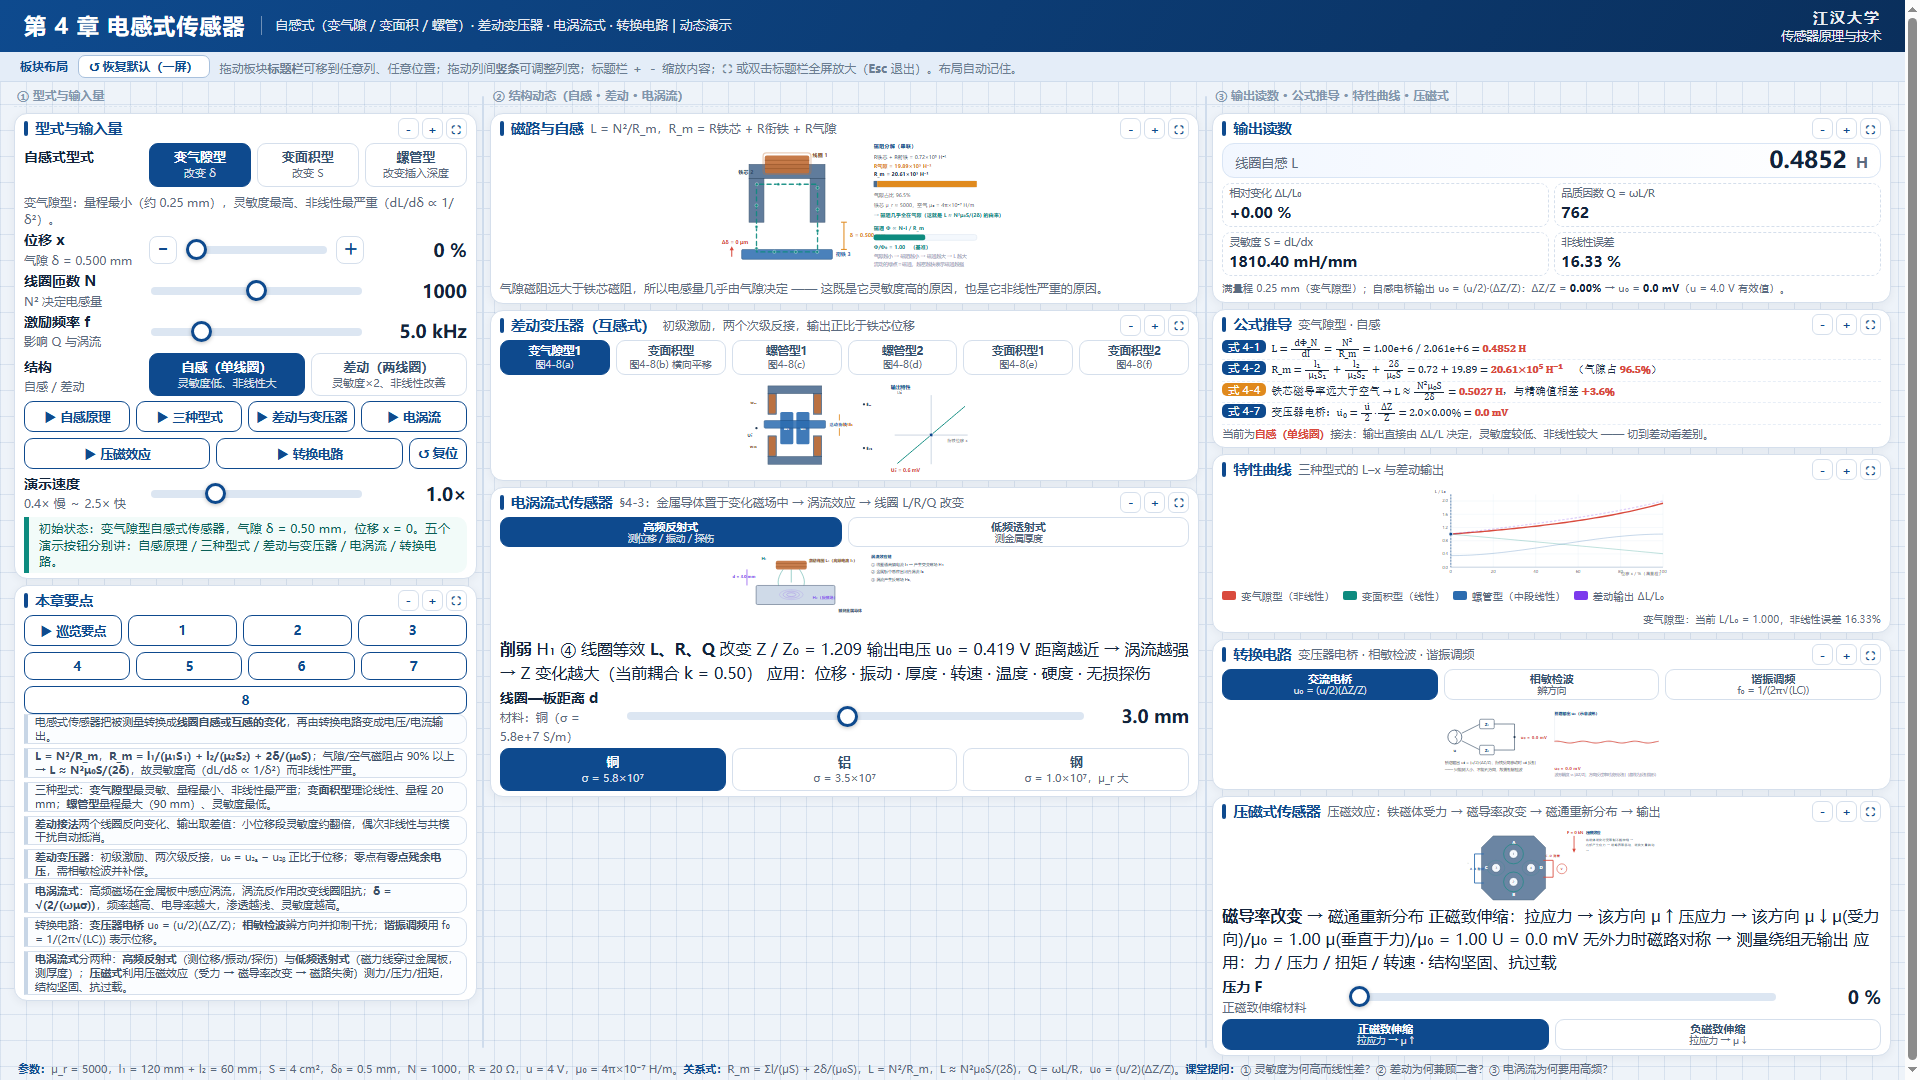
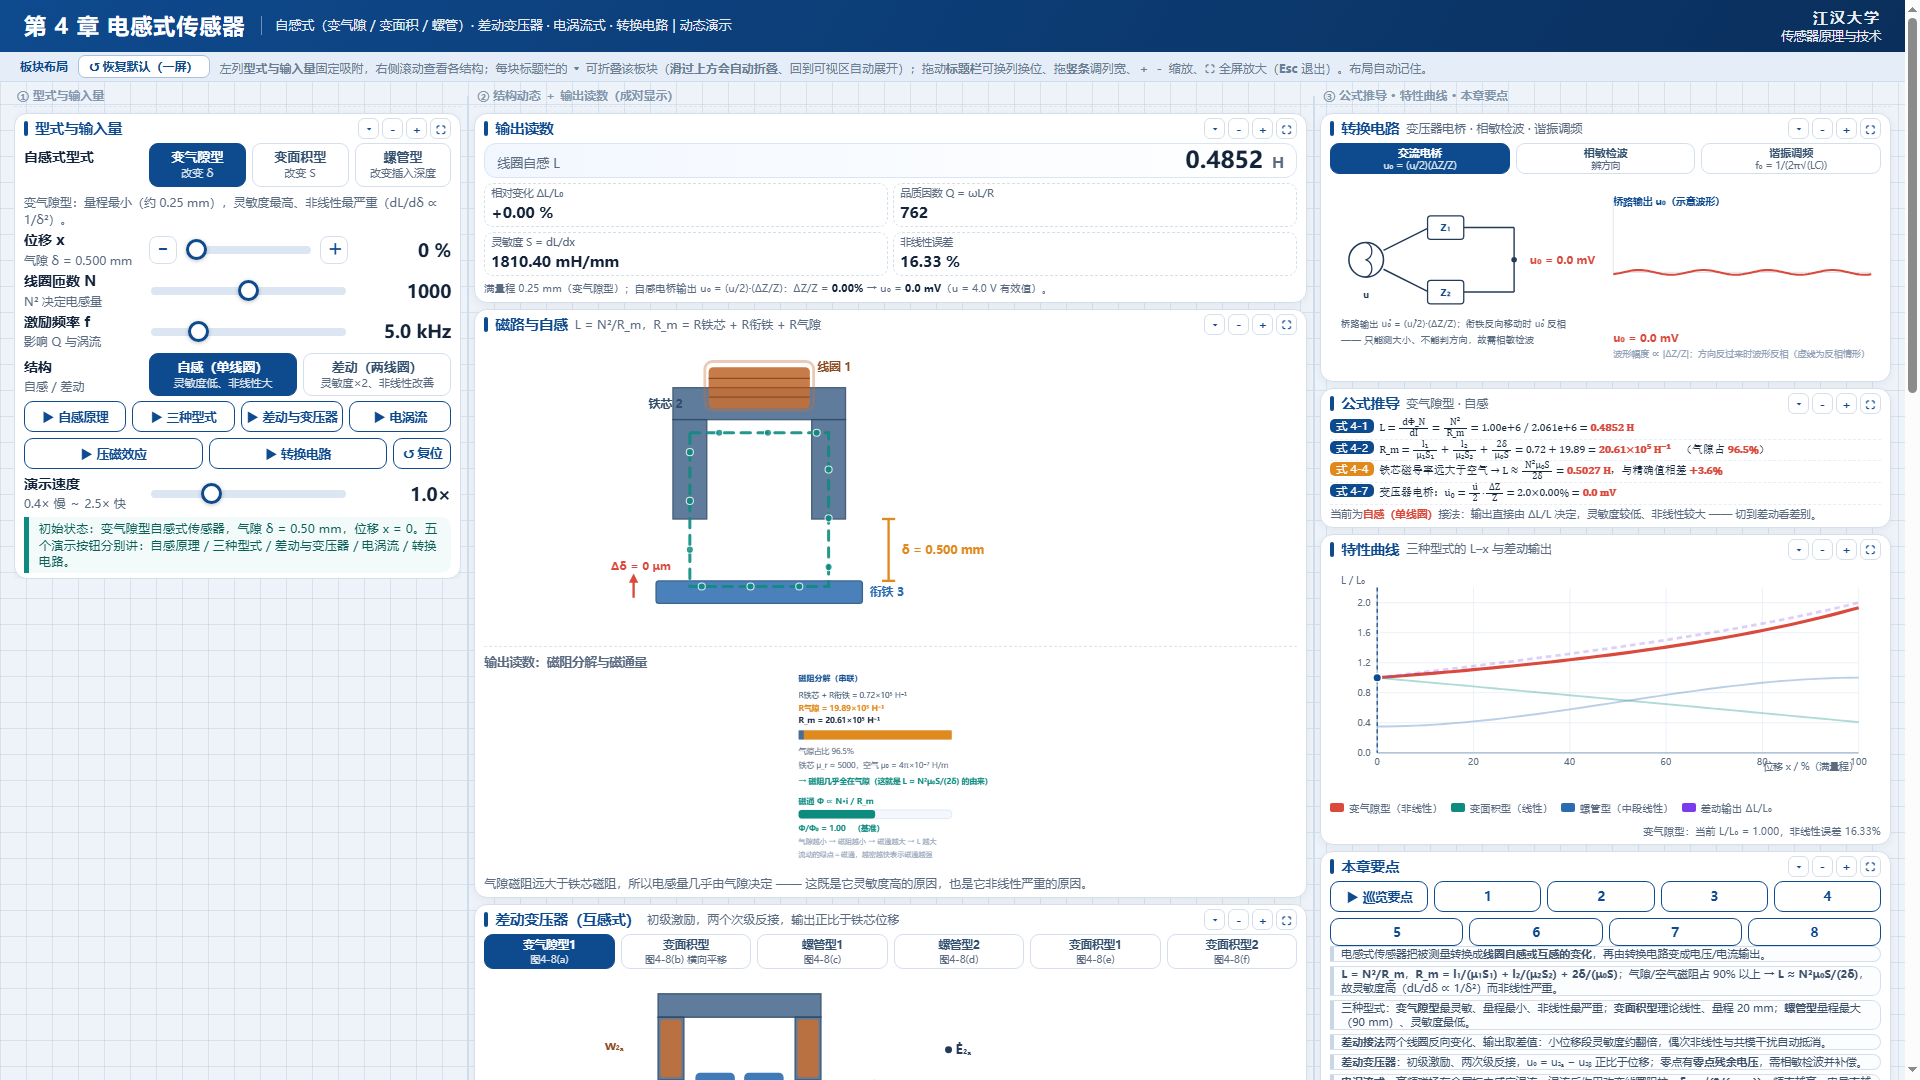
布局改版：左列型式与输入量吸附固定；右侧每个结构图与其输出读数合并成一张卡片（读数紧贴动态下方）；结构图取消限高放大；滑过上方自动折叠、回到可视区自动展开（含手动折叠按钮）

diff --git a/传感器原理及检测技术/第4章-电感式传感器-动态演示.html b/传感器原理及检测技术/第4章-电感式传感器-动态演示.html
@@ -139,8 +139,18 @@
   #segEddy button, #segPm button{min-width:70px; flex:1 1 70px; padding:2px 4px; font-size:11px; line-height:1.2}
   #segEddy button small, #segPm button small{font-size:9.5px}
   .ptsB{flex:0 0 26px; padding:2px 0; font-size:11px; border-radius:6px}
-  #mag{max-height:132px} #curve{max-height:104px} #diff,#lvd{max-height:96px}
-  #eddy{max-height:86px} #cir{max-height:80px} #pm{max-height:78px}
+  /* 左列（型式与输入量）吸附固定，右侧滚动时始终可见 */
+  #colA{position:sticky; top:6px; align-self:flex-start; max-height:calc(100vh - 16px); overflow-y:auto}
+  #colA::-webkit-scrollbar{width:6px}
+  #colA::-webkit-scrollbar-thumb{background:#c3d3e6; border-radius:3px}
+  .panel.folded > .pbody{display:none}
+  .panel.folded{border-color:#bcd0e5; background:#f8fbff}
+  .panel.folded > .phead h2{color:#5b6b80}
+  .ptool[data-act="fold"]{font-size:11px}
+  .readlabel{font-size:12.5px; font-weight:700; color:#5b6b80; margin:7px 0 3px; padding-top:6px; border-top:1px dashed #dbe5f0}
+  .readwrap svg{max-height:196px}
+  .pbody > svg{max-height:300px}
+  .pbody > svg + svg{max-height:196px}
   @media (max-width:1200px){ #boardWrap{min-width:1180px} }
 </style>
 </head>
@@ -153,7 +163,7 @@
 <div id="laybar">
   <span style="font-weight:700;color:#0e4a8e">板块布局</span>
   <button id="layReset">↺ 恢复默认（一屏）</button>
-  <span class="hint">拖动板块<b>标题栏</b>可移到任意列、任意位置；拖动列间<b>竖条</b>可调整列宽；标题栏 <b>＋ －</b> 缩放内容；<b>⛶</b> 或双击标题栏全屏放大（<b>Esc</b> 退出）。布局自动记住。</span>
+  <span class="hint">左列<b>型式与输入量</b>固定吸附，右侧滚动查看各结构；每块标题栏的 <b>▾</b> 可折叠该板块（<b>滑过上方会自动折叠</b>、回到可视区自动展开）；拖动<b>标题栏</b>可换列换位、拖<b>竖条</b>调列宽、<b>＋ －</b> 缩放、<b>⛶</b> 全屏放大（<b>Esc</b> 退出）。布局自动记住。</span>
 </div>
 
 <div id="boardWrap">
@@ -446,7 +456,11 @@
         <!-- 差动式：两个线圈分绕上/下磁芯，衔铁在中间，上下气隙一增一减 -->
 
         <!-- 右侧：磁阻分解 + 磁通量 -->
-        <g transform="translate(420,12)">
+        
+      </svg>
+      <div class="readlabel">输出读数：磁阻分解与磁通量</div>
+      <div class="readwrap"><svg viewBox="0 0 620 320" role="img" aria-label="输出读数 ① 磁阻分解与磁通量">
+<g transform="translate(160,12)">
           <text x="0" y="0" font-size="13" font-weight="700" fill="#0e4a8e">磁阻分解（串联）</text>
           <text id="rmFe" x="0" y="28" font-size="12.5" fill="#2f4b68">R铁芯 + R衔铁 = 0</text>
           <text id="rmGap" x="0" y="48" font-size="12.5" font-weight="700" fill="var(--gapm)">R气隙 = 0</text>
@@ -464,17 +478,20 @@
           <text id="fluxNote" x="0" y="266" font-size="11.5" fill="#94a3b8">气隙越小 → 磁阻越小 → 磁通越大 → L 越大</text>
           <text x="0" y="286" font-size="11.5" fill="#94a3b8">流动的绿点＝磁通，越密越快表示磁通越强</text>
         </g>
-      </svg>
+      </svg></div>
+
       <div class="hint" id="magHint">气隙磁阻远大于铁芯磁阻，所以电感量几乎由气隙决定 —— 这既是它灵敏度高的原因，也是它非线性严重的原因。</div>
       </div>
     </section>
+
+    
   </div>
 
   <div class="vsplit" data-left="colA" data-right="colB" title="拖动可调整两列宽度"></div>
 
   <!-- ================= 中列 ================= -->
   <div class="col" id="colB">
-    <div class="colhead">② 结构动态（自感 · 差动 · 电涡流）</div>
+    <div class="colhead">② 结构动态 ＋ 输出读数（成对显示）</div>
 
     <section class="card panel" id="fmlCard">
       <div class="phead">
@@ -564,17 +581,7 @@
           <line id="dDim" x1="52" y1="56" x2="52" y2="150" stroke="var(--eddy)" stroke-width="2"/>
           <text id="dTxt" x="8" y="106" font-size="12" font-weight="700" fill="var(--eddy)">d = 0.0 mm</text>
           <!-- 因果链 -->
-          <g transform="translate(430,20)">
-            <text x="0" y="0" font-size="12.5" font-weight="700" fill="#0e4a8e">涡流效应链</text>
-            <text x="0" y="26" font-size="12" fill="#33506f">① 线圈通高频电流 I₁ → 产生交变磁场 H₁</text>
-            <text x="0" y="48" font-size="12" fill="#33506f">② 金属板中感应出闭合涡流 I₂</text>
-            <text x="0" y="70" font-size="12" fill="#33506f">③ 涡流产生反磁场 H₂，<b>削弱</b> H₁</text>
-            <text x="0" y="92" font-size="12" fill="#33506f">④ 线圈等效 <b>L、R、Q</b> 改变</text>
-            <text id="eddyZ" x="0" y="122" font-size="13" font-weight="700" fill="#d94a3d">Z / Z₀ = 1.000</text>
-            <text id="eddyU" x="0" y="146" font-size="13" font-weight="700" fill="#0e4a8e">输出电压 u₀ = 0.00 V</text>
-            <text id="eddyNote" x="0" y="172" font-size="11" fill="#94a3b8">距离越近 → 涡流越强 → 阻抗变化越大</text>
-            <text x="0" y="196" font-size="11" fill="#94a3b8">应用：位移 · 振动 · 厚度 · 转速 · 温度 · 硬度 · 无损探伤</text>
-          </g>
+          
         </g>
         <!-- ===== 模式② 低频透射式 ===== -->
         <g id="eddyTrans" style="display:none">
@@ -598,7 +605,23 @@
           <line x1="150" y1="217" x2="260" y2="217" stroke="#8c4d22" stroke-width="1.2"/>
           <text x="268" y="216" font-size="12" font-weight="700" fill="#8c4d22">接收线圈 L₂</text>
           <text x="106" y="212" font-size="12" font-weight="700" fill="#2b6cb0">U̇₂</text>
-          <g transform="translate(430,20)">
+          
+        </g>
+      </svg>
+      <div class="readlabel">输出读数：阻抗变化 / 接收信号</div>
+      <div class="readwrap"><svg viewBox="0 0 640 240" role="img" aria-label="输出读数 ③ 电涡流：阻抗变化 / 接收信号">
+<g id="eddyReadRefl" transform="translate(180,14)">
+            <text x="0" y="0" font-size="12.5" font-weight="700" fill="#0e4a8e">涡流效应链</text>
+            <text x="0" y="26" font-size="12" fill="#33506f">① 线圈通高频电流 I₁ → 产生交变磁场 H₁</text>
+            <text x="0" y="48" font-size="12" fill="#33506f">② 金属板中感应出闭合涡流 I₂</text>
+            <text x="0" y="70" font-size="12" fill="#33506f">③ 涡流产生反磁场 H₂，<b>削弱</b> H₁</text>
+            <text x="0" y="92" font-size="12" fill="#33506f">④ 线圈等效 <b>L、R、Q</b> 改变</text>
+            <text id="eddyZ" x="0" y="122" font-size="13" font-weight="700" fill="#d94a3d">Z / Z₀ = 1.000</text>
+            <text id="eddyU" x="0" y="146" font-size="13" font-weight="700" fill="#0e4a8e">输出电压 u₀ = 0.00 V</text>
+            <text id="eddyNote" x="0" y="172" font-size="11" fill="#94a3b8">距离越近 → 涡流越强 → 阻抗变化越大</text>
+            <text x="0" y="196" font-size="11" fill="#94a3b8">应用：位移 · 振动 · 厚度 · 转速 · 温度 · 硬度 · 无损探伤</text>
+          </g>
+<g id="eddyReadTrans" transform="translate(190,14)" style="display:none">
             <text x="0" y="0" font-size="12.5" font-weight="700" fill="#0e4a8e">透射式原理链</text>
             <text x="0" y="26" font-size="12" fill="#33506f">U → L₁ → 同频交变电流 → 交变磁场</text>
             <text x="0" y="48" font-size="12" fill="#33506f">→ 磁力线切割 M → 产生涡流 i</text>
@@ -608,8 +631,8 @@
             <text id="transNote" x="0" y="152" font-size="11" fill="#94a3b8">降低频率 → 贯穿深度加厚 → 可测更厚的板材</text>
             <text x="0" y="176" font-size="11" fill="#94a3b8">板越厚 → 涡流吸收越多 → 接收信号越小（测厚度）</text>
           </g>
-        </g>
-      </svg>
+      </svg></div>
+
       <div class="ctrl" style="margin-top:4px">
         <div class="row">
           <span class="name"><b id="eddyLbl">线圈—板距离 d</b><br><span class="tiny" id="matTxt">材料：铜</span></span>
@@ -624,6 +647,8 @@
       </div>
       </div>
     </section>
+
+    
 
     <section class="card panel" id="pmCard">
       <div class="phead">
@@ -672,7 +697,11 @@
           <polygon id="pmF2H" points="428,218 422,232 434,232" fill="#d94a3d" opacity="0"/>
         </g>
         <!-- 右侧：解释与读数 -->
-        <g transform="translate(468,26)">
+        
+      </svg>
+      <div class="readlabel">输出读数：磁导率与输出电压</div>
+      <div class="readwrap"><svg viewBox="0 0 480 280" role="img" aria-label="输出读数 ④ 压磁式：磁导率与输出电压">
+<g transform="translate(120,14)">
           <text x="0" y="0" font-size="12.5" font-weight="700" fill="#0e4a8e">压磁效应</text>
           <text x="0" y="24" font-size="11.5" fill="#33506f">铁磁体磁化时受限制不能伸缩 →</text>
           <text x="0" y="44" font-size="11.5" fill="#33506f">内部产生应力 → 磁畴界限移动、磁化矢量转动</text>
@@ -685,7 +714,8 @@
           <text id="pmNote" x="0" y="210" font-size="11" fill="#94a3b8">无外力时磁路对称 → 测量绕组无输出</text>
           <text x="0" y="232" font-size="11" fill="#94a3b8">应用：力 / 压力 / 扭矩 / 转速 · 结构坚固、抗过载</text>
         </g>
-      </svg>
+      </svg></div>
+
       <div class="ctrl" style="margin-top:4px">
         <div class="row">
           <span class="name"><b>压力 F</b><br><span class="tiny" id="pmMatTxt">正磁致伸缩材料</span></span>
@@ -699,13 +729,15 @@
       </div>
       </div>
     </section>
+
+    
   </div>
 
   <div class="vsplit" data-left="colB" data-right="colC" title="拖动可调整两列宽度"></div>
 
   <!-- ================= 右列 ================= -->
   <div class="col" id="colC">
-    <div class="colhead">③ 输出读数 · 公式推导 · 特性曲线 · 压磁式</div>
+    <div class="colhead">③ 公式推导 · 特性曲线 · 本章要点</div>
 
     <section class="card panel" id="diffCard">
       <div class="phead">
@@ -857,7 +889,11 @@
           <text x="112" y="238" font-size="11.5" fill="#5b6b80">转子转动 → 与两次级的耦合面积一增一减 → 差动输出（可测角位移）</text>
         </g>
         <!-- ========== 右侧：输出现象 ========== -->
-        <g transform="translate(470,26)">
+        
+      </svg>
+      <div class="readlabel">输出读数：U̇₂ 与零点残余电压</div>
+      <div class="readwrap"><svg viewBox="0 0 560 300" role="img" aria-label="输出读数 ② 差动变压器：U̇₂ 与零点残余">
+<g transform="translate(140,20)">
           <text x="0" y="0" font-size="12.5" font-weight="700" fill="#0e4a8e">输出特性</text>
           <line x1="10" y1="120" x2="200" y2="120" stroke="#9fb2c8" stroke-width="1.4"/>
           <line x1="105" y1="16" x2="105" y2="196" stroke="#9fb2c8" stroke-width="1.4"/>
@@ -868,9 +904,12 @@
           <text id="lvOut" x="0" y="216" font-size="12.5" font-weight="800" fill="#d94a3d">U̇₂ = 0.0 mV</text>
           <text id="lvNote" x="0" y="236" font-size="10.5" fill="#94a3b8">零点残余电压 ≈ 0.5% FS</text>
         </g>
-      </svg>
+      </svg></div>
+
       </div>
     </section>
+
+    
 
     <section class="card panel" id="circCard">
       <div class="phead">
@@ -1619,6 +1658,8 @@
     var isT = (S.eddyMode === 'trans');
     $('eddyRefl').style.display = isT ? 'none' : '';
     $('eddyTrans').style.display = isT ? '' : 'none';
+    $('eddyReadRefl').style.display = isT ? 'none' : '';
+    $('eddyReadTrans').style.display = isT ? '' : 'none';
     var btns = document.querySelectorAll('#segEddy button');
     for (var b = 0; b < btns.length; b++){
       btns[b].classList.toggle('on', btns[b].getAttribute('data-e') === S.eddyMode);
@@ -2134,13 +2175,14 @@
   "use strict";
   var BOARD = document.getElementById('board');
   var COLS  = ['colA','colB','colC'];
-  var IDS   = ['ctrlCard','magCard','fmlCard','readCard','curveCard','eddyCard','diffCard','circCard','ptsCard'];
+  var IDS   = ['ctrlCard','magCard','fmlCard','readCard','curveCard','eddyCard','diffCard','pmCard','circCard','ptsCard'];
   var MINZ = 0.7, MAXZ = 1.6, MINCOL = 260;
-  var KEY = 'jh-inductive-layout-v2';
+  var KEY = 'jh-inductive-layout-v4';
   var DEF = {
-    weight: { colA:3.0, colB:4.6, colC:4.4 },
-    col: { colA:['ctrlCard','ptsCard'], colB:['magCard','diffCard','eddyCard'],
-           colC:['readCard','fmlCard','curveCard','circCard','pmCard'] },
+    weight: { colA:2.9, colB:5.4, colC:3.7 },
+    col: { colA:['ctrlCard'],
+           colB:['magCard','diffCard','eddyCard','pmCard'],
+           colC:['fmlCard','curveCard','ptsCard'] },
     zoom: {}
   };
   var L = null, focused = null;
@@ -2289,6 +2331,52 @@
   document.querySelectorAll('.vsplit').forEach(function(sp){
     sp.addEventListener('pointerdown', function(e){ startSplit(e, sp); });
   });
+  /* ---------- 折叠：滑过上方自动折叠，回到可视区自动展开；可手动锁定 ---------- */
+  function setFold(p, on){
+    p.classList.toggle('folded', on);
+    var b = p.querySelector('.pbody');
+    if (b) b.style.display = on ? 'none' : '';
+    var btn = p.querySelector('.ptool[data-act="fold"]');
+    if (btn) btn.textContent = on ? '▸' : '▾';
+  }
+  IDS.forEach(function(id){
+    var p = el(id); if (!p) return;
+    var tools = p.querySelector('.ptools');
+    if (!tools) return;
+    var fb = document.createElement('button');
+    fb.className = 'ptool';
+    fb.setAttribute('data-act', 'fold');
+    fb.title = '折叠 / 展开本板块（手动折叠后不会被自动展开）';
+    fb.textContent = '▾';
+    tools.insertBefore(fb, tools.firstChild);
+    fb.addEventListener('click', function(e){
+      e.stopPropagation();
+      var folded = p.classList.contains('folded');
+      setFold(p, !folded);
+      if (!folded) p.setAttribute('data-manual', '1'); else p.removeAttribute('data-manual');
+    });
+  });
+  var ticking = false;
+  function autoFold(){
+    ticking = false;
+    var vh = window.innerHeight || 900;
+    IDS.forEach(function(id){
+      var p = el(id); if (!p) return;
+      var r = p.getBoundingClientRect();
+      if (r.bottom < 130){                       /* 已滑过上方 → 折叠 */
+        if (!p.classList.contains('folded')) setFold(p, true);
+      } else if (r.top < vh && r.bottom > 0 && !p.hasAttribute('data-manual')){
+        if (p.classList.contains('folded')) setFold(p, false);   /* 回到可视区 → 展开 */
+      }
+    });
+  }
+  window.addEventListener('scroll', function(){
+    if (!ticking){ ticking = true; requestAnimationFrame(autoFold); }
+  }, { passive:true });
+  window.addEventListener('resize', function(){ if (window.__repack) window.__repack(); });
+  setTimeout(autoFold, 400);
+  window.__autoFold = autoFold;
+
   var lr = document.getElementById('layReset');
   if (lr) lr.addEventListener('click', reset);
   document.addEventListener('keydown', function(e){ if (e.key === 'Escape' && focused) toggleFocus(focused); });
